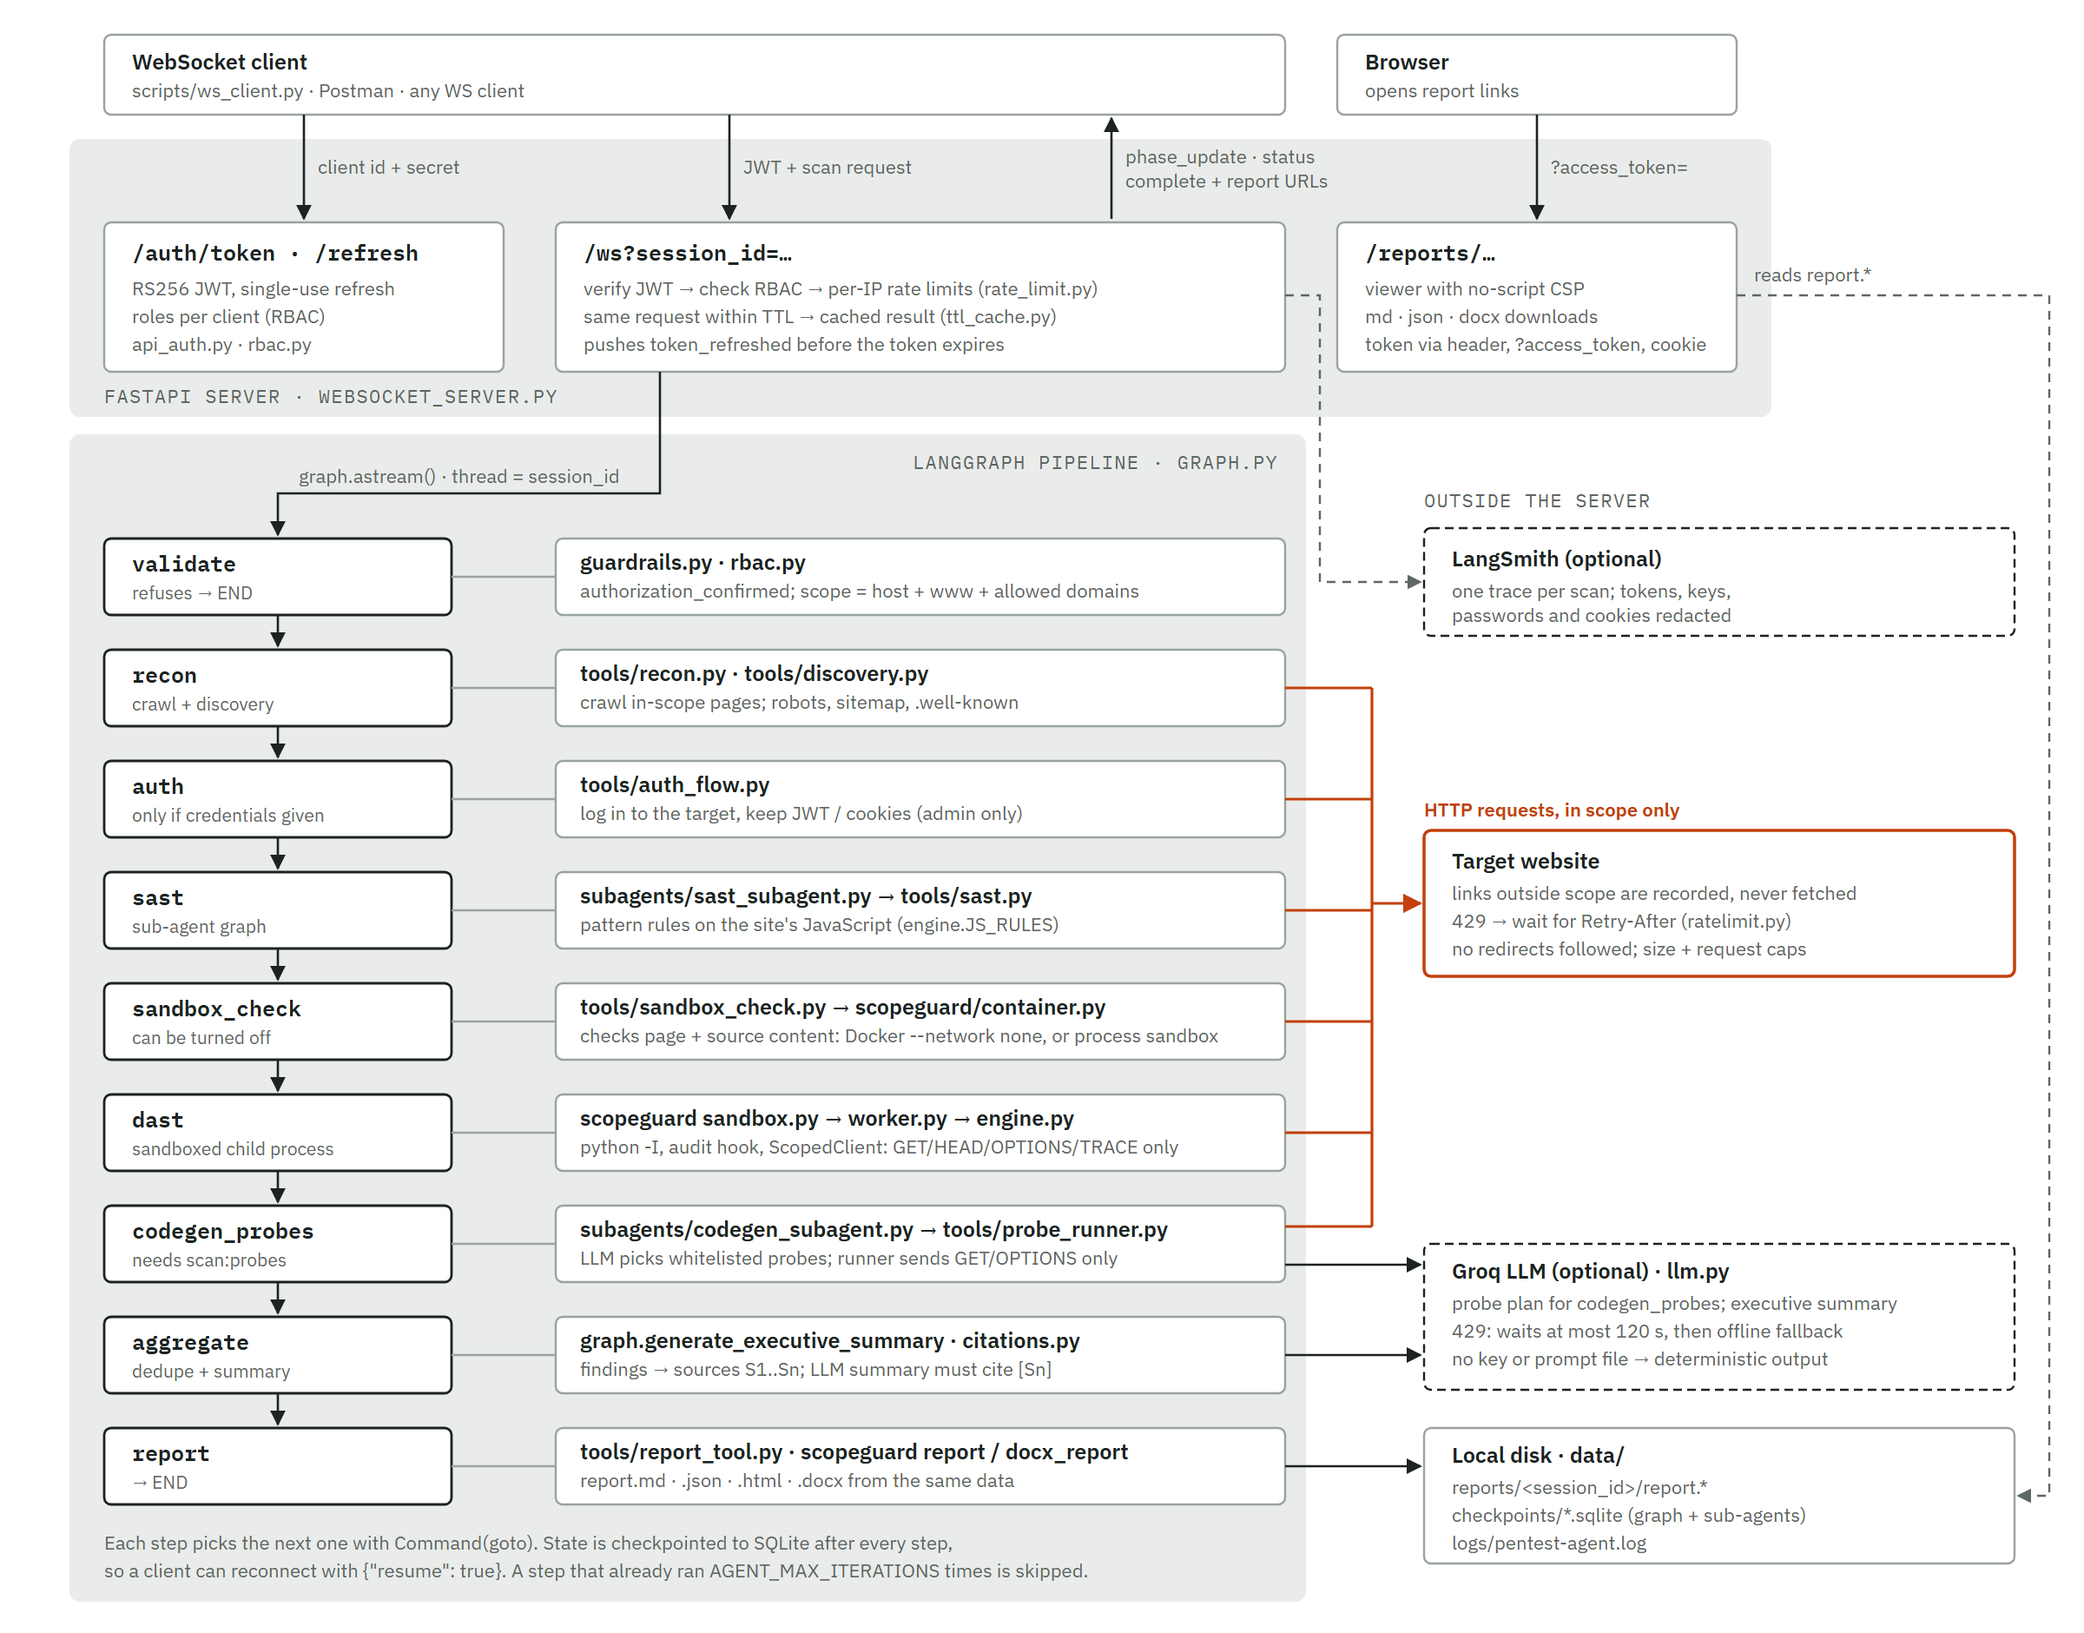
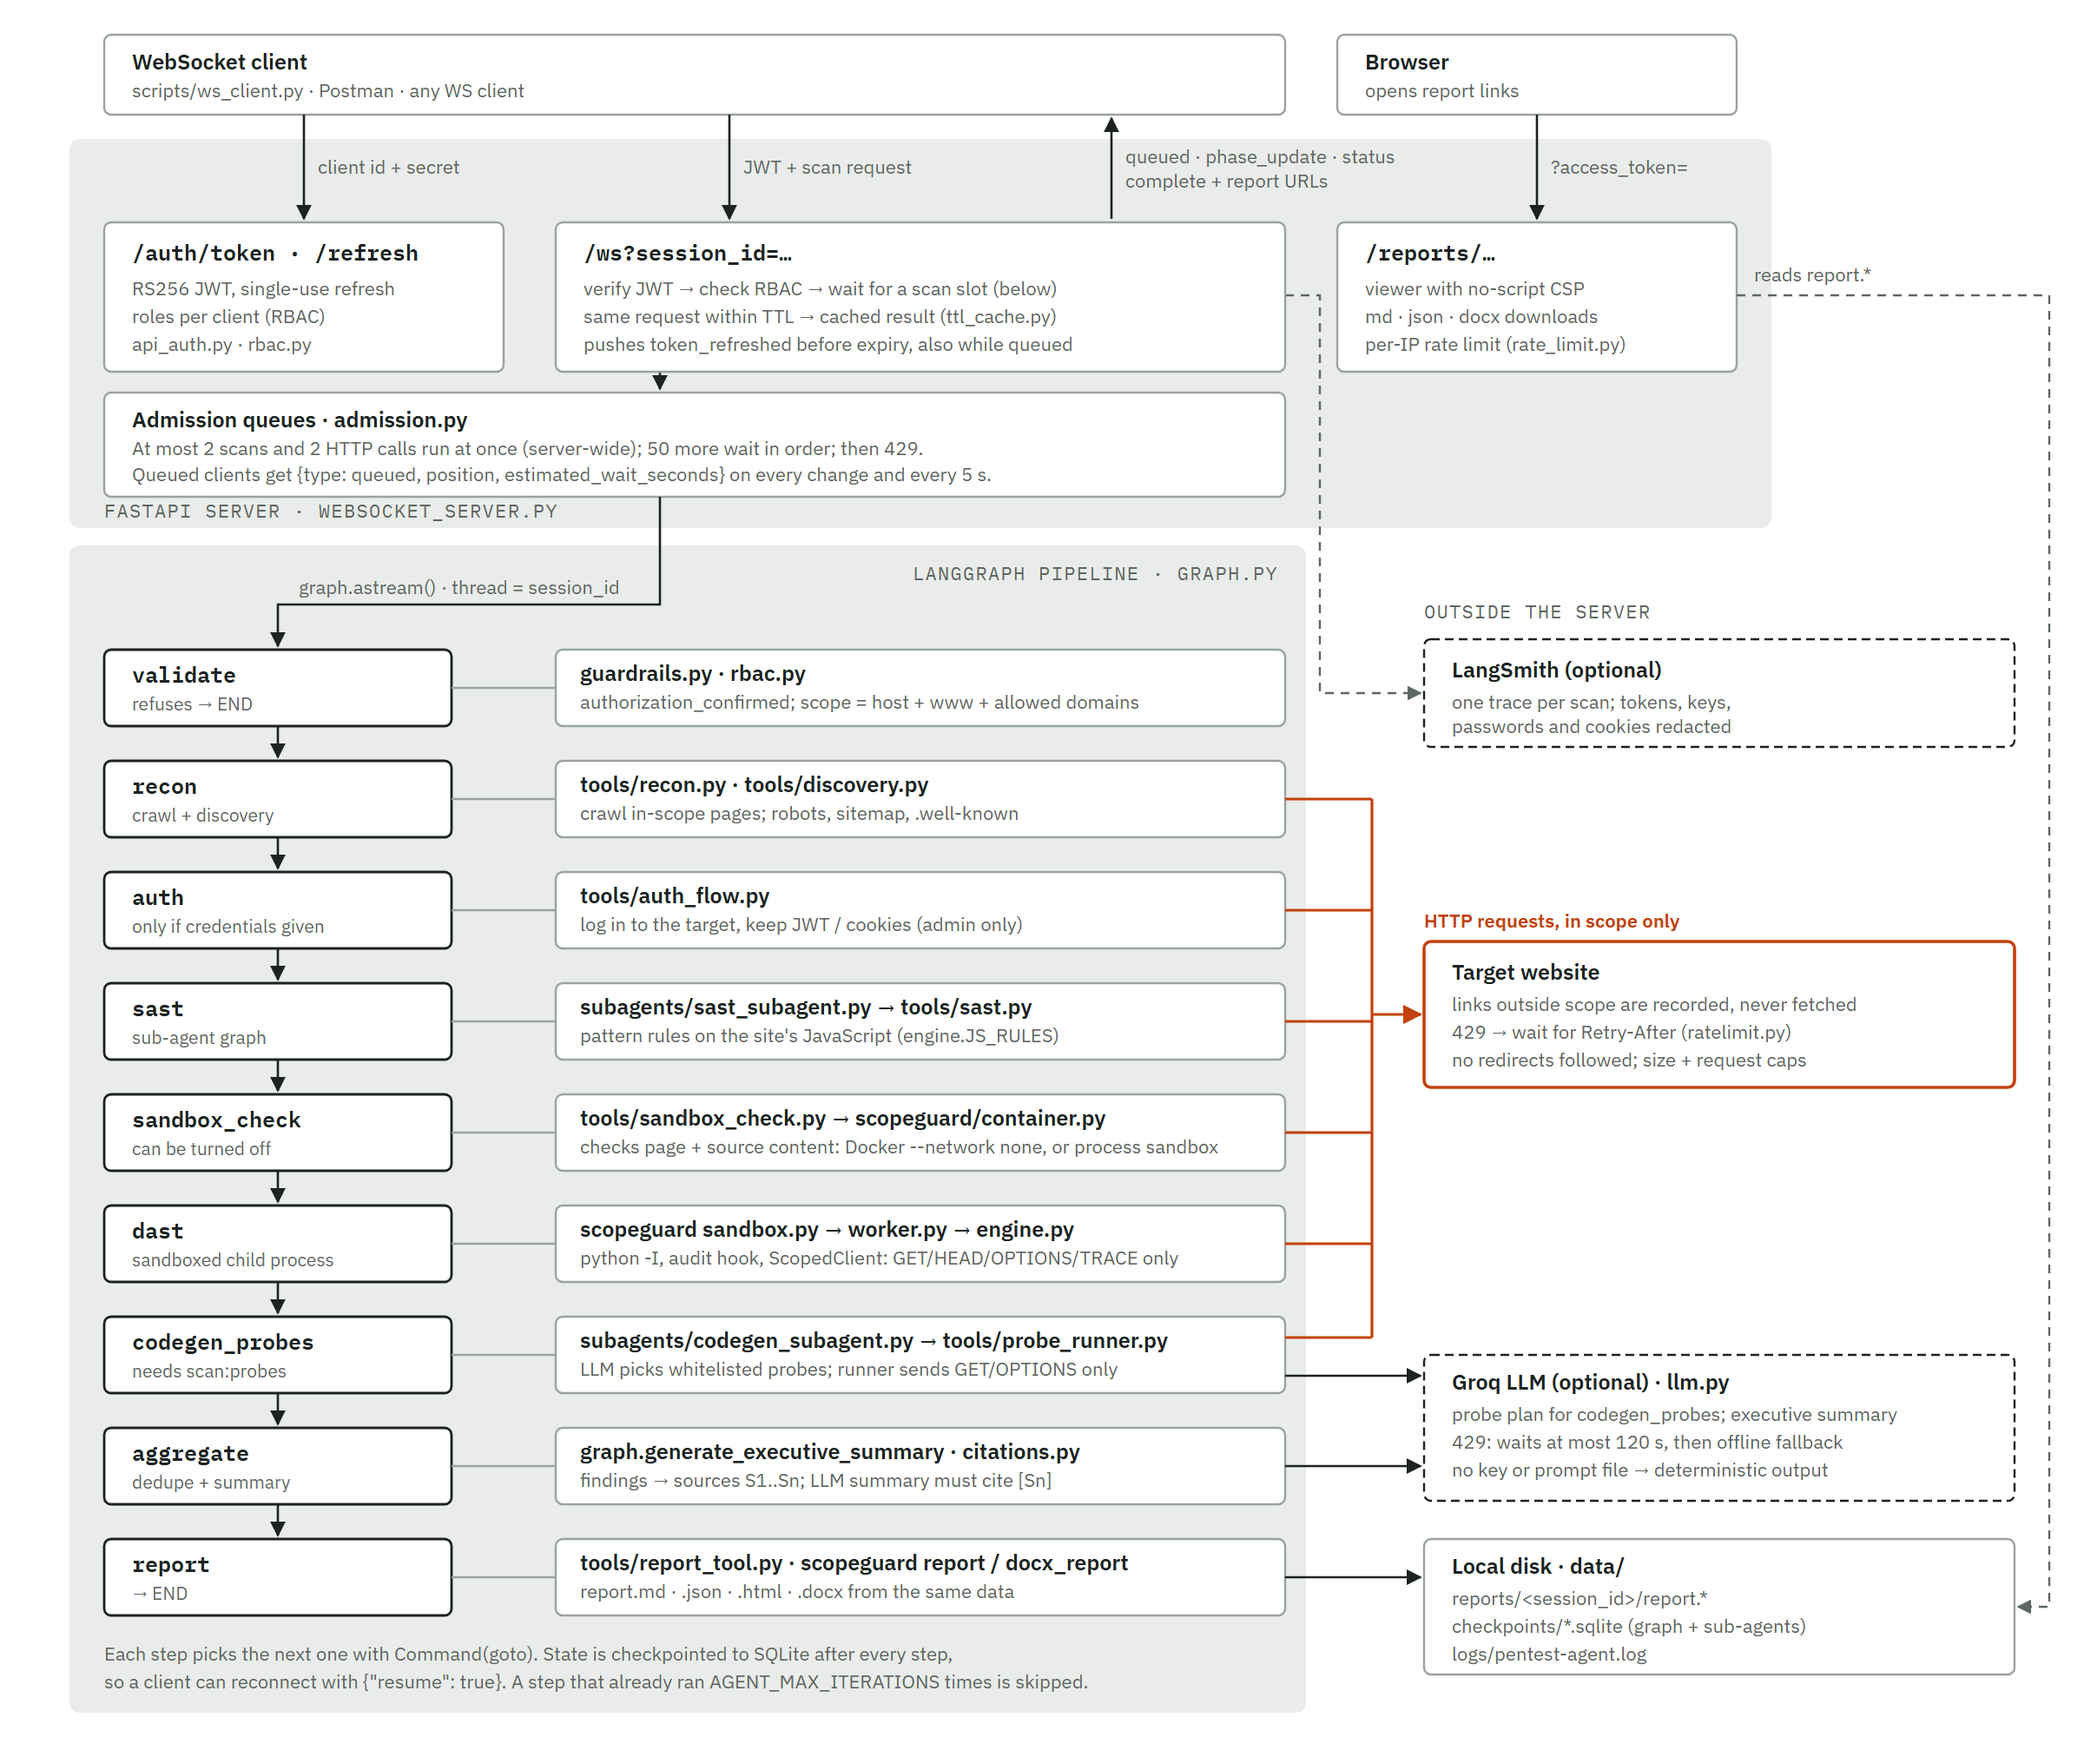
Show the admission queues in the architecture diagram

diff --git a/README.md b/README.md
@@ -8,10 +8,11 @@ Docker-free sandbox (a Dockerfile is provided only to package test -> drift chec
 
 ## Architecture
 
-![Architecture: a WebSocket client signs in and sends a scan request to the FastAPI server, which runs the nine-step LangGraph pipeline; six steps send in-scope requests to the target, two call the Groq LLM, and the report step writes files that the report viewer serves.](docs/architecture.png)
+![Architecture: a WebSocket client signs in and sends a scan request to the FastAPI server; the request waits in a server-wide queue, then runs the nine-step LangGraph pipeline; six steps send in-scope requests to the target, two call the Groq LLM, and the report step writes files that the report viewer serves.](docs/architecture.png)
 
-A client signs in at `/auth/token` and sends the scan request over `/ws`. The server runs the
-LangGraph pipeline `validate → recon → auth → sast → sandbox_check → dast → codegen_probes → aggregate → report`
+A client signs in at `/auth/token` and sends the scan request over `/ws`. The request waits in the
+server-wide queue (2 scans run at once, up to 50 wait; see [API management](#api-management-queues)),
+then the server runs the LangGraph pipeline `validate → recon → auth → sast → sandbox_check → dast → codegen_probes → aggregate → report`
 and streams progress back. Orange lines mark the only traffic to the target website (in scope only).
 Only `codegen_probes` and `aggregate` call the LLM, and both have offline fallbacks. Reports and
 SQLite checkpoints are written under `data/`. The same scan engine (`src/scopeguard/`) also runs
